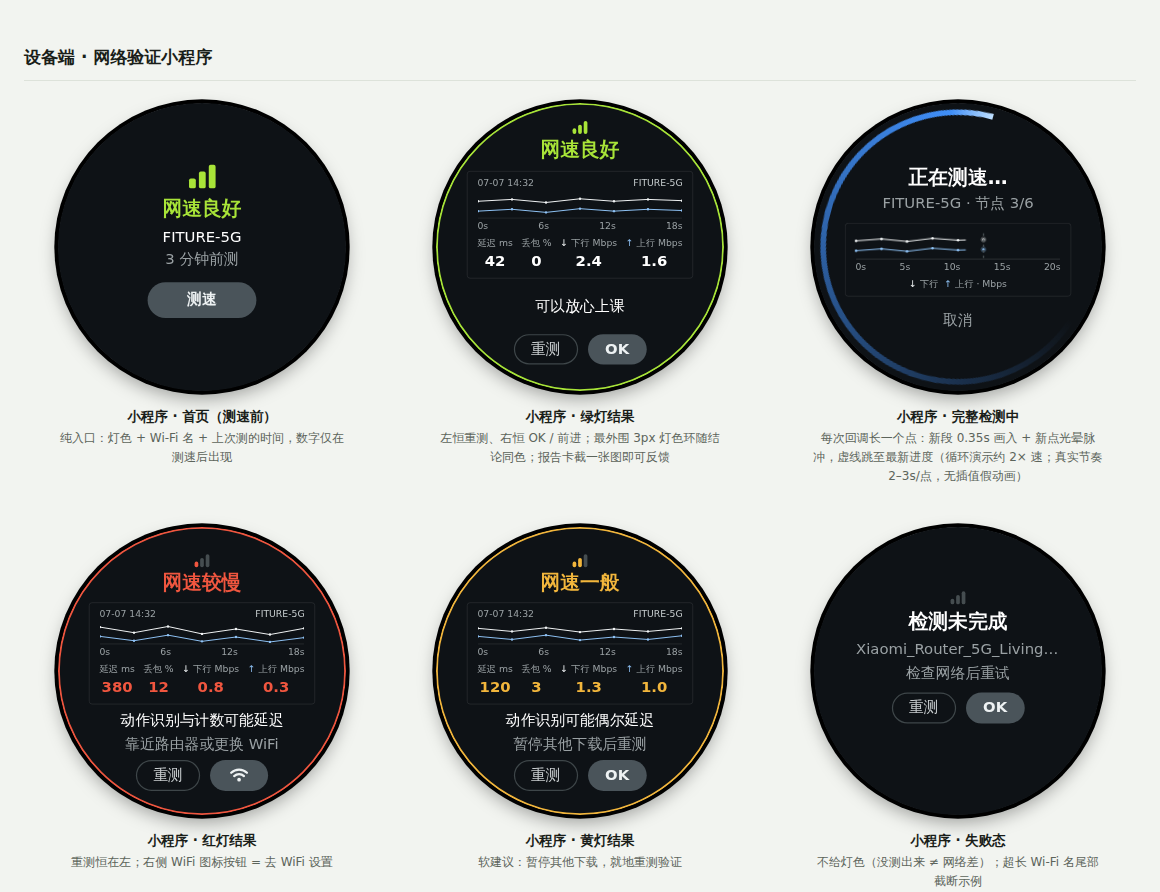
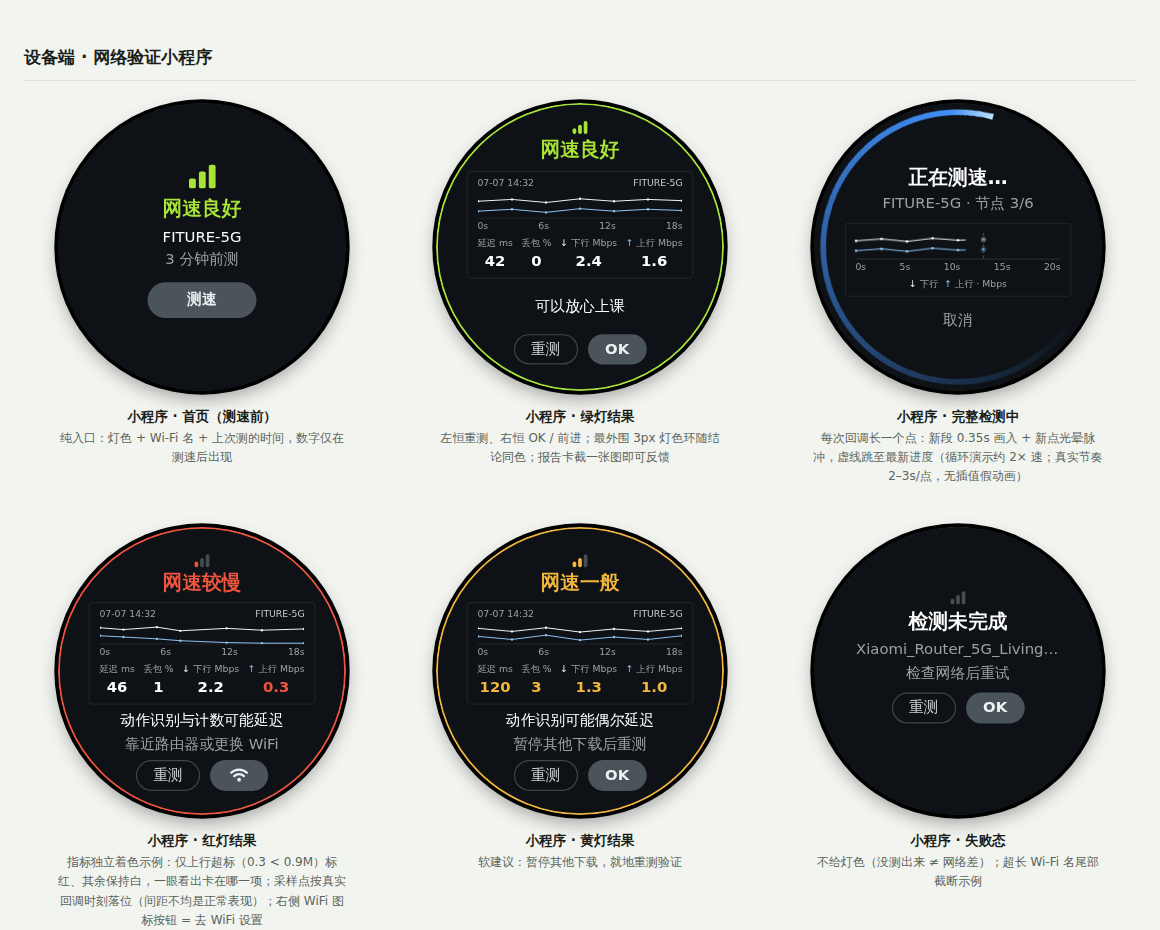
Clarify metric coloring, value semantics, and sampling cadence
- Rework the red-result demo example to show per-metric independent
  coloring: only uplink exceeds its threshold (0.3 < 0.9 Mbps) and is
  tinted red while ping/loss/downlink stay default white - the page
  light itself still comes from TRTC quality; uplink curve sags toward
  the 0 Mbps baseline and sample points sit at uneven real arrival
  times
- PRD-2 A4.7: new "value semantics" bullet - the four result numbers
  are the SDK's final aggregated outputs (rtt/lossRate/available
  bandwidth), never our own average over waveform points; file-test
  fallback uses window-average throughput + median ping. Strengthen
  the sampling bullet: callback interval is per-node and not fixed,
  points land at actual arrival times with uneven spacing preserved
- Dev checklist: add aggregated-values item and non-fixed cadence note

Claude-Session: https://claude.ai/code/session_01GK61VJL6HvXSFdCeuPzjiU

diff --git a/Demo-界面交互UI设计.html b/Demo-界面交互UI设计.html
@@ -408,11 +408,11 @@
         <span class="bars sm"><i class="b1" style="background:var(--dev-bad)"></i><i class="b2 dim"></i><i class="b3 dim"></i></span>
         <div class="big-status" style="margin-top:2px; font-size:32px; color:var(--dev-bad)" data-en="Slow speed">网速较慢</div>
         <div class="report-card" style="margin-top:10px; padding-top:8px">
-          <div class="rc-top"><span class="dt">07-07 14:32</span><span class="ssid">FITURE-5G</span></div><svg width="330" height="36" viewBox="0 0 330 36"><line x1="0" y1="35.5" x2="330" y2="35.5" stroke="rgba(255,255,255,.22)" stroke-width="1"/><polyline points="0,8 55,17 110,7 165,19 220,11 275,20 330,10" fill="none" stroke="#f2f5f6" stroke-width="1.6" stroke-linecap="round"/><circle cx="0" cy="8" r="1.9" fill="#f2f5f6"/><circle cx="55" cy="17" r="1.9" fill="#f2f5f6"/><circle cx="110" cy="7" r="1.9" fill="#f2f5f6"/><circle cx="165" cy="19" r="1.9" fill="#f2f5f6"/><circle cx="220" cy="11" r="1.9" fill="#f2f5f6"/><circle cx="275" cy="20" r="1.9" fill="#f2f5f6"/><circle cx="330" cy="10" r="1.9" fill="#f2f5f6"/><polyline points="0,23 55,30 110,21 165,31 220,24 275,32 330,25" fill="none" stroke="#8fc2f5" stroke-width="1.6" stroke-linecap="round"/><circle cx="0" cy="23" r="1.9" fill="#8fc2f5"/><circle cx="55" cy="30" r="1.9" fill="#8fc2f5"/><circle cx="110" cy="21" r="1.9" fill="#8fc2f5"/><circle cx="165" cy="31" r="1.9" fill="#8fc2f5"/><circle cx="220" cy="24" r="1.9" fill="#8fc2f5"/><circle cx="275" cy="32" r="1.9" fill="#8fc2f5"/><circle cx="330" cy="25" r="1.9" fill="#8fc2f5"/></svg><div class="rc-axis"><span>0s</span><span>6s</span><span>12s</span><span>18s</span></div>
+          <div class="rc-top"><span class="dt">07-07 14:32</span><span class="ssid">FITURE-5G</span></div><svg width="330" height="36" viewBox="0 0 330 36"><line x1="0" y1="35.5" x2="330" y2="35.5" stroke="rgba(255,255,255,.22)" stroke-width="1"/><polyline points="0,9 38,12 92,8 130,14 205,10 262,13 330,11" fill="none" stroke="#f2f5f6" stroke-width="1.6" stroke-linecap="round"/><circle cx="0" cy="9" r="1.9" fill="#f2f5f6"/><circle cx="38" cy="12" r="1.9" fill="#f2f5f6"/><circle cx="92" cy="8" r="1.9" fill="#f2f5f6"/><circle cx="130" cy="14" r="1.9" fill="#f2f5f6"/><circle cx="205" cy="10" r="1.9" fill="#f2f5f6"/><circle cx="262" cy="13" r="1.9" fill="#f2f5f6"/><circle cx="330" cy="11" r="1.9" fill="#f2f5f6"/><polyline points="0,22 38,24 92,27 130,30 205,33 262,34 330,34" fill="none" stroke="#8fc2f5" stroke-width="1.6" stroke-linecap="round"/><circle cx="0" cy="22" r="1.9" fill="#8fc2f5"/><circle cx="38" cy="24" r="1.9" fill="#8fc2f5"/><circle cx="92" cy="27" r="1.9" fill="#8fc2f5"/><circle cx="130" cy="30" r="1.9" fill="#8fc2f5"/><circle cx="205" cy="33" r="1.9" fill="#8fc2f5"/><circle cx="262" cy="34" r="1.9" fill="#8fc2f5"/><circle cx="330" cy="34" r="1.9" fill="#8fc2f5"/></svg><div class="rc-axis"><span>0s</span><span>6s</span><span>12s</span><span>18s</span></div>
           <div class="rc-metrics">
-            <div><div class="k" data-en="Ping ms">延迟 ms</div><div class="v" style="color:var(--dev-bad)">380</div></div>
-            <div><div class="k" data-en="Loss %">丢包 %</div><div class="v" style="color:var(--dev-bad)">12</div></div>
-            <div><div class="k"><span style="color:#f2f5f6">↓</span> <span data-en="Down Mbps">下行 Mbps</span></div><div class="v" style="color:var(--dev-bad)">0.8</div></div>
+            <div><div class="k" data-en="Ping ms">延迟 ms</div><div class="v">46</div></div>
+            <div><div class="k" data-en="Loss %">丢包 %</div><div class="v">1</div></div>
+            <div><div class="k"><span style="color:#f2f5f6">↓</span> <span data-en="Down Mbps">下行 Mbps</span></div><div class="v">2.2</div></div>
             <div><div class="k"><span style="color:#8fc2f5">↑</span> <span data-en="Up Mbps">上行 Mbps</span></div><div class="v" style="color:var(--dev-bad)">0.3</div></div>
           </div>
           </div>
@@ -421,7 +421,7 @@
         <div class="btn-row"><div class="btn ghost" data-en="Retest">重测</div><div class="btn icon primary"><svg width="34" height="24" viewBox="10 18 32 20"><path d="M14 24a17 17 0 0 1 24 0" stroke="#eef2f3" stroke-width="3.4" fill="none" stroke-linecap="round"/><path d="M18.5 29a11 11 0 0 1 15 0" stroke="#eef2f3" stroke-width="3.4" fill="none" stroke-linecap="round"/><circle cx="26" cy="34.5" r="2.8" fill="#eef2f3"/></svg></div></div>
         <div style="flex:.7"></div>
       </div></div>
-      <figcaption><b>小程序 · 红灯结果</b><span>重测恒在左；右侧 WiFi 图标按钮 = 去 WiFi 设置</span></figcaption>
+      <figcaption><b>小程序 · 红灯结果</b><span>指标独立着色示例：仅上行超标（0.3 &lt; 0.9M）标红、其余保持白，一眼看出卡在哪一项；采样点按真实回调时刻落位（间距不均是正常表现）；右侧 WiFi 图标按钮 = 去 WiFi 设置</span></figcaption>
     </figure>
 
     <figure class="shot">

diff --git a/PRD-2-网速测试小程序.md b/PRD-2-网速测试小程序.md
@@ -49,8 +49,9 @@
   - **笔触**：折线线宽约 1.5px、样本点 r ≈ 2px、最新点 r ≈ 3px——466 圆屏物理尺寸小，线过粗会显粗糙；
   - **屏缘环两种用法，靠宽度区分**：检测中 = 旋转进度环（宽约 10px，蓝）；结果页 = **静止 3px 灯色细环**（与结论标题同色；仅绿 / 黄 / 红结果页，首页与失败态无环）。**决策记录**：V1.0 曾整体取消状态色环——10px 粗环与「bars + 标题 + 指标着色」冗余、视觉份量过重、挤压顶排元素；V1.2 以细环回归并定稿 3px（2px 试过偏弱，3px 更醒目仍不碰排版）：粗细 3 倍以上的差异让「粗环旋转 = 测速中 / 细环静止 = 结果灯色」两条语义互不混淆；
   - **时长逻辑（非固定，Demo 的 18s / 20s 仅为示例值）**：总时长 = 延迟丢包阶段（约 5 秒）+ 带宽阶段，主要由**测速节点数**（`totalCount`，服务端下发、非我们指定）和网络状况决定，典型 **10–30 秒**。注意方向性：**网快不会明显更快**（时长下限由节点调度节奏决定），**网差会拖长**（等待、重试、丢包补偿）——所以进度环按 `finishedCount / totalCount` 驱动而不是按时间，永远真实；**硬超时 40 秒**：超时调用 `stopSpeedTest` 进失败态，文案「检测超时 / 检查网络后重测」。备选文件测速路径时长反而可控：固定时间窗（下行 8s + 上行 8s + ping ≈ 2s，共约 18 秒恒定），这是自研路径的一个优点；
-  - **时间密度**：一个样本点 = 一次 TRTC `onSpeedTestResult` 进度回调，官方节奏约每 2–3 秒一点，共约 5–8 点；备选文件测速路径按 1 秒一个吞吐量桶采样（约 15–30 点）。点即真实样本，**只画折线不做平滑插值**（不虚构数据），且**每个样本位置画一个小圆点**（r ≈ 2px）——点标出「哪一刻真的回传过数据」，线只负责连接；
+  - **时间密度**：一个样本点 = 一次 TRTC `onSpeedTestResult` 进度回调（按「完成一个测速节点」触发），**间隔不固定**——典型 2–3 秒一点、共约 5–8 点，弱网 / 重试下会拉长；**点按实际到达时刻落在时间轴上**，间距不均匀本身就是信息（能读出「哪一段变慢了」），不做等距归一化。备选文件测速路径按 1 秒一个吞吐量桶采样（约 15–30 点，等距）。点即真实样本，**只画折线不做平滑插值**（不虚构数据），且**每个样本位置画一个小圆点**（r ≈ 2px）——点标出「哪一刻真的回传过数据」，线只负责连接；
   - **实时刷新**：检测中每收到一个回调就在曲线右端追加一点（可 300ms 缓动画入），**最新一点放大显示**（r ≈ 4px，标记「刚回传」），x 轴 = 已用时长，**检测中用预估总时长定标**（初始 20 秒 = `totalCount` × 近期平均每节点耗时；实际超出预估时轴右端整体扩展并重划刻度，曲线不打断），虚线游标标记当前进度；**结果页 x 轴 = 本次实际耗时**（如实际 14 秒就标到 14s，不凑整到假的 18s）；**波形下沿标注时间轴：4–5 个真实秒数刻度**（示例：结果页 `0s / 6s / 12s / 18s`，检测中 `0s / 5s / 10s / 15s / 20s`），采样点落在刻度尺上，用户能读出「掉速发生在第几秒」。**决策记录**：逐点标秒数太挤（5–8 点 × 每标签约 24px，330px 宽放不下且噪）；只写「每点 ≈ 2–3 秒」信息量不足（读不出事件位置）；均匀秒数刻度两者兼顾——采样间隔属工程参数，写在本 PRD 与上报字段里，不上屏；回调间隔内数值不做假动画。带宽值在延迟阶段尚无效（-1），曲线从首个有效带宽样本开始画；
+  - **数值口径（波形 = 过程，四指标 = 结论）**：结果页四个数字取 **SDK 最终回调的整体聚合值**——`rtt` / `lossRate` / `availableUp(Down)Bandwidth` 由官方在整次测速结束时汇总输出，**我们不对波形逐点自行求平均**（丢包取上下行较大值 ×100%，见总览 B3 映射表）；波形负责展示过程（含掉速时刻），指标负责给结论，两者数据源一致但口径不同。备选文件测速路径：上/下行 = 各自测试窗内的平均吞吐，ping = 多次采样取中位数；样本方差超阈值时由「网络波动较大」派生标签提示（见 A4.3）；
   - **定格复用**：测速结束波形数据原样冻结进结果页报告卡（同一份数据、同一组件），不重绘不重采样；
   - **字号三档制**（466px 屏基准，**全小程序只用 3 个字号**）：**大 32 = 结论标题**（每页唯一）；**中 24 = 指标数值、影响、建议、按钮、副行文案（节点进度 / 取消 / 首页时效）**；**小 15 = SSID、日期时间、指标列标题、时间轴刻度、图例**。档内层级不靠字号、靠**字重与颜色**：数值 = 中号加粗（白或阈值色）、影响 = 中号白、建议 = 中号灰、SSID = 小号浅白、其余小号灰。演进记录：V1.0 中期一度用到 7 个字号（32/24/22/17/15/14/13），已收敛为三档。结果页顶部 bars 用小号字形（格高 9/15/21px）并预留顶部安全边距——顶排元素离表圈最近，宁小勿裁；组间距大于组内距，宁可留白也不顶到表圈。
 - **A4.8 边界 · 空态 · 显示保护**（Demo 失败态屏含超长 SSID 截断示例）：

diff --git a/开发注意事项-业务逻辑清单.md b/开发注意事项-业务逻辑清单.md
@@ -19,7 +19,8 @@
 - [ ] **时长非固定**：节点数 `totalCount` 由服务端下发，典型 10–30s；**进度环按 `finishedCount/totalCount` 驱动，绝不按时间**；
 - [ ] **测速产生计费流量**（TRTC 按正常音视频计费）+ 用户真实带宽消耗，不做自动周期性完整测速；
 - [ ] **-1 无效值**：`availableUp/DownBandwidth = -1` → 显示「—」、不着色、不入波形；带宽值在延迟阶段无效，波形从首个有效样本画起；
-- [ ] **波形数据 = 真实回调**：不插值、不平滑、不做假动画；新样本入场动画（段画入 0.35s + 光晕脉冲）只装饰新增瞬间、不改数据；结果页复用同一份数据（不重绘不重采样）；
+- [ ] **波形数据 = 真实回调**：不插值、不平滑、不做假动画；新样本入场动画（段画入 0.35s + 光晕脉冲）只装饰新增瞬间、不改数据；**采样间隔非固定**（按节点完成回调，典型 2–3s，弱网拉长），点按实际到达时刻落位、不等距归一化；结果页复用同一份数据（不重绘不重采样）；
+- [ ] **四指标 = SDK 聚合结论值**（最终回调的 rtt / lossRate / availableBandwidth，丢包取上下行较大值），不对波形逐点自行平均；备选文件测速 = 窗口平均吞吐 + ping 中位数；
 - [ ] **测速中断网 / 切网**：立即取消任务进失败态并注明原因。
 
 ## 3. 显示规则（PRD A4）
